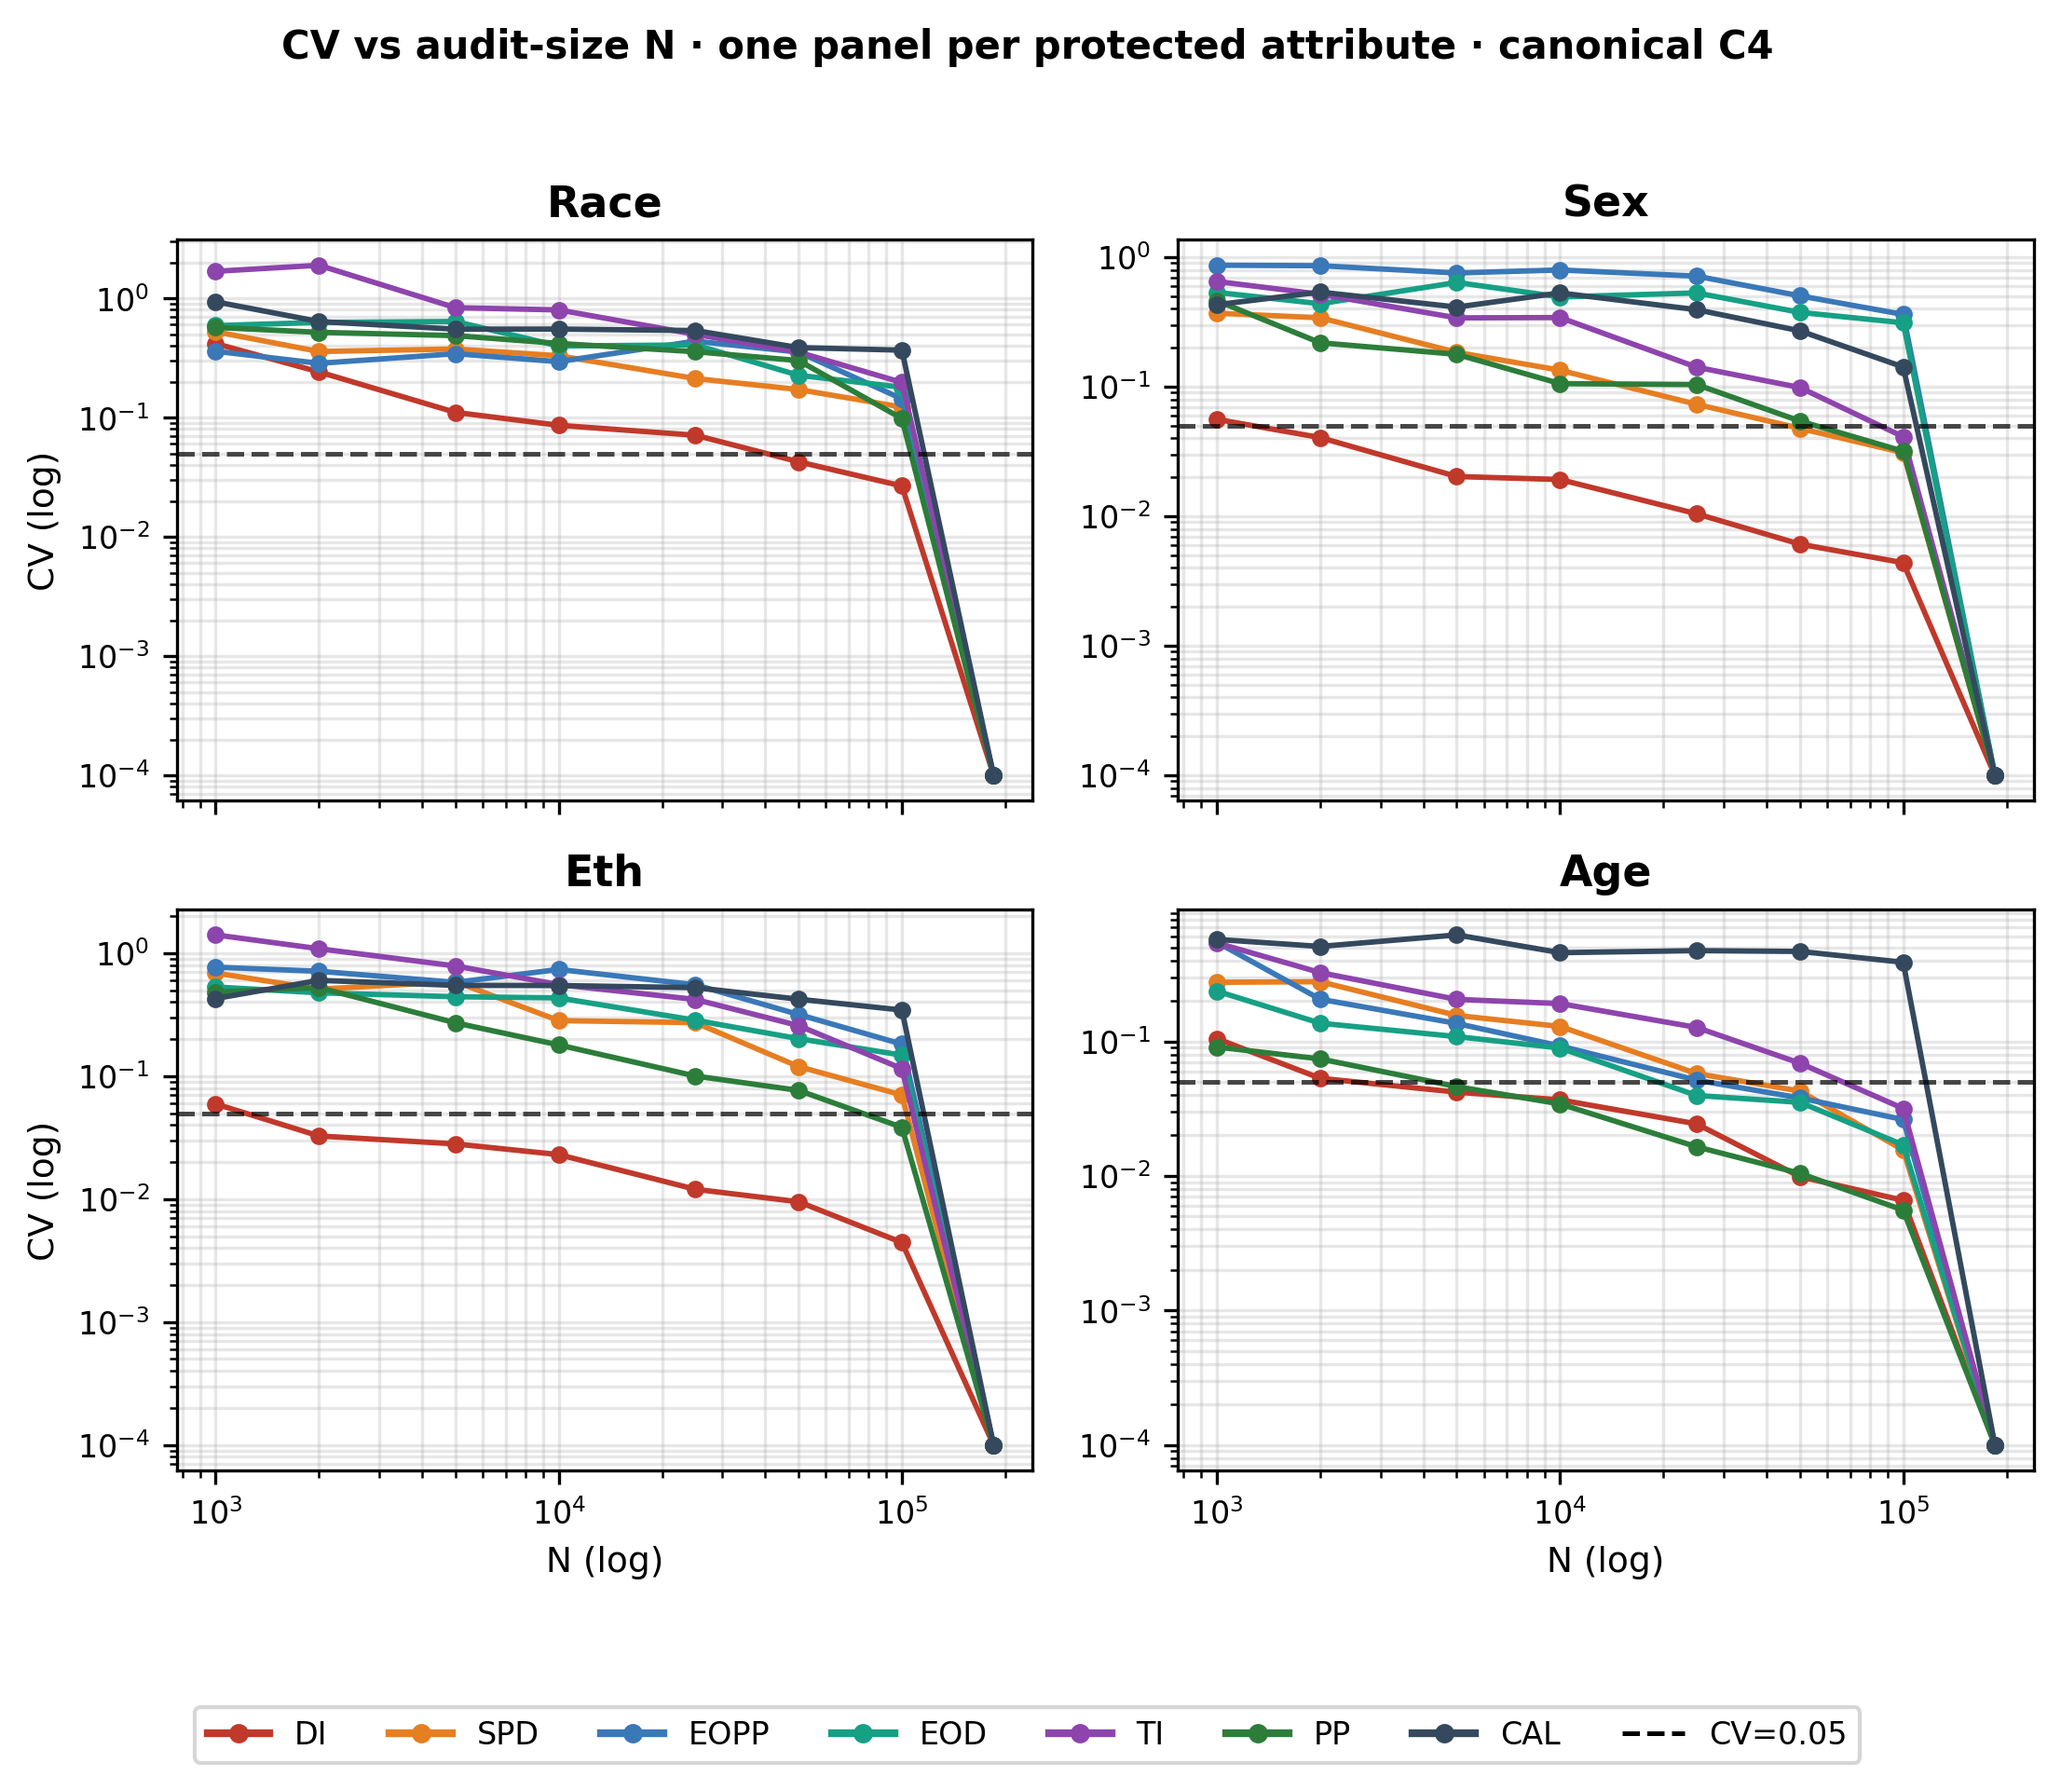
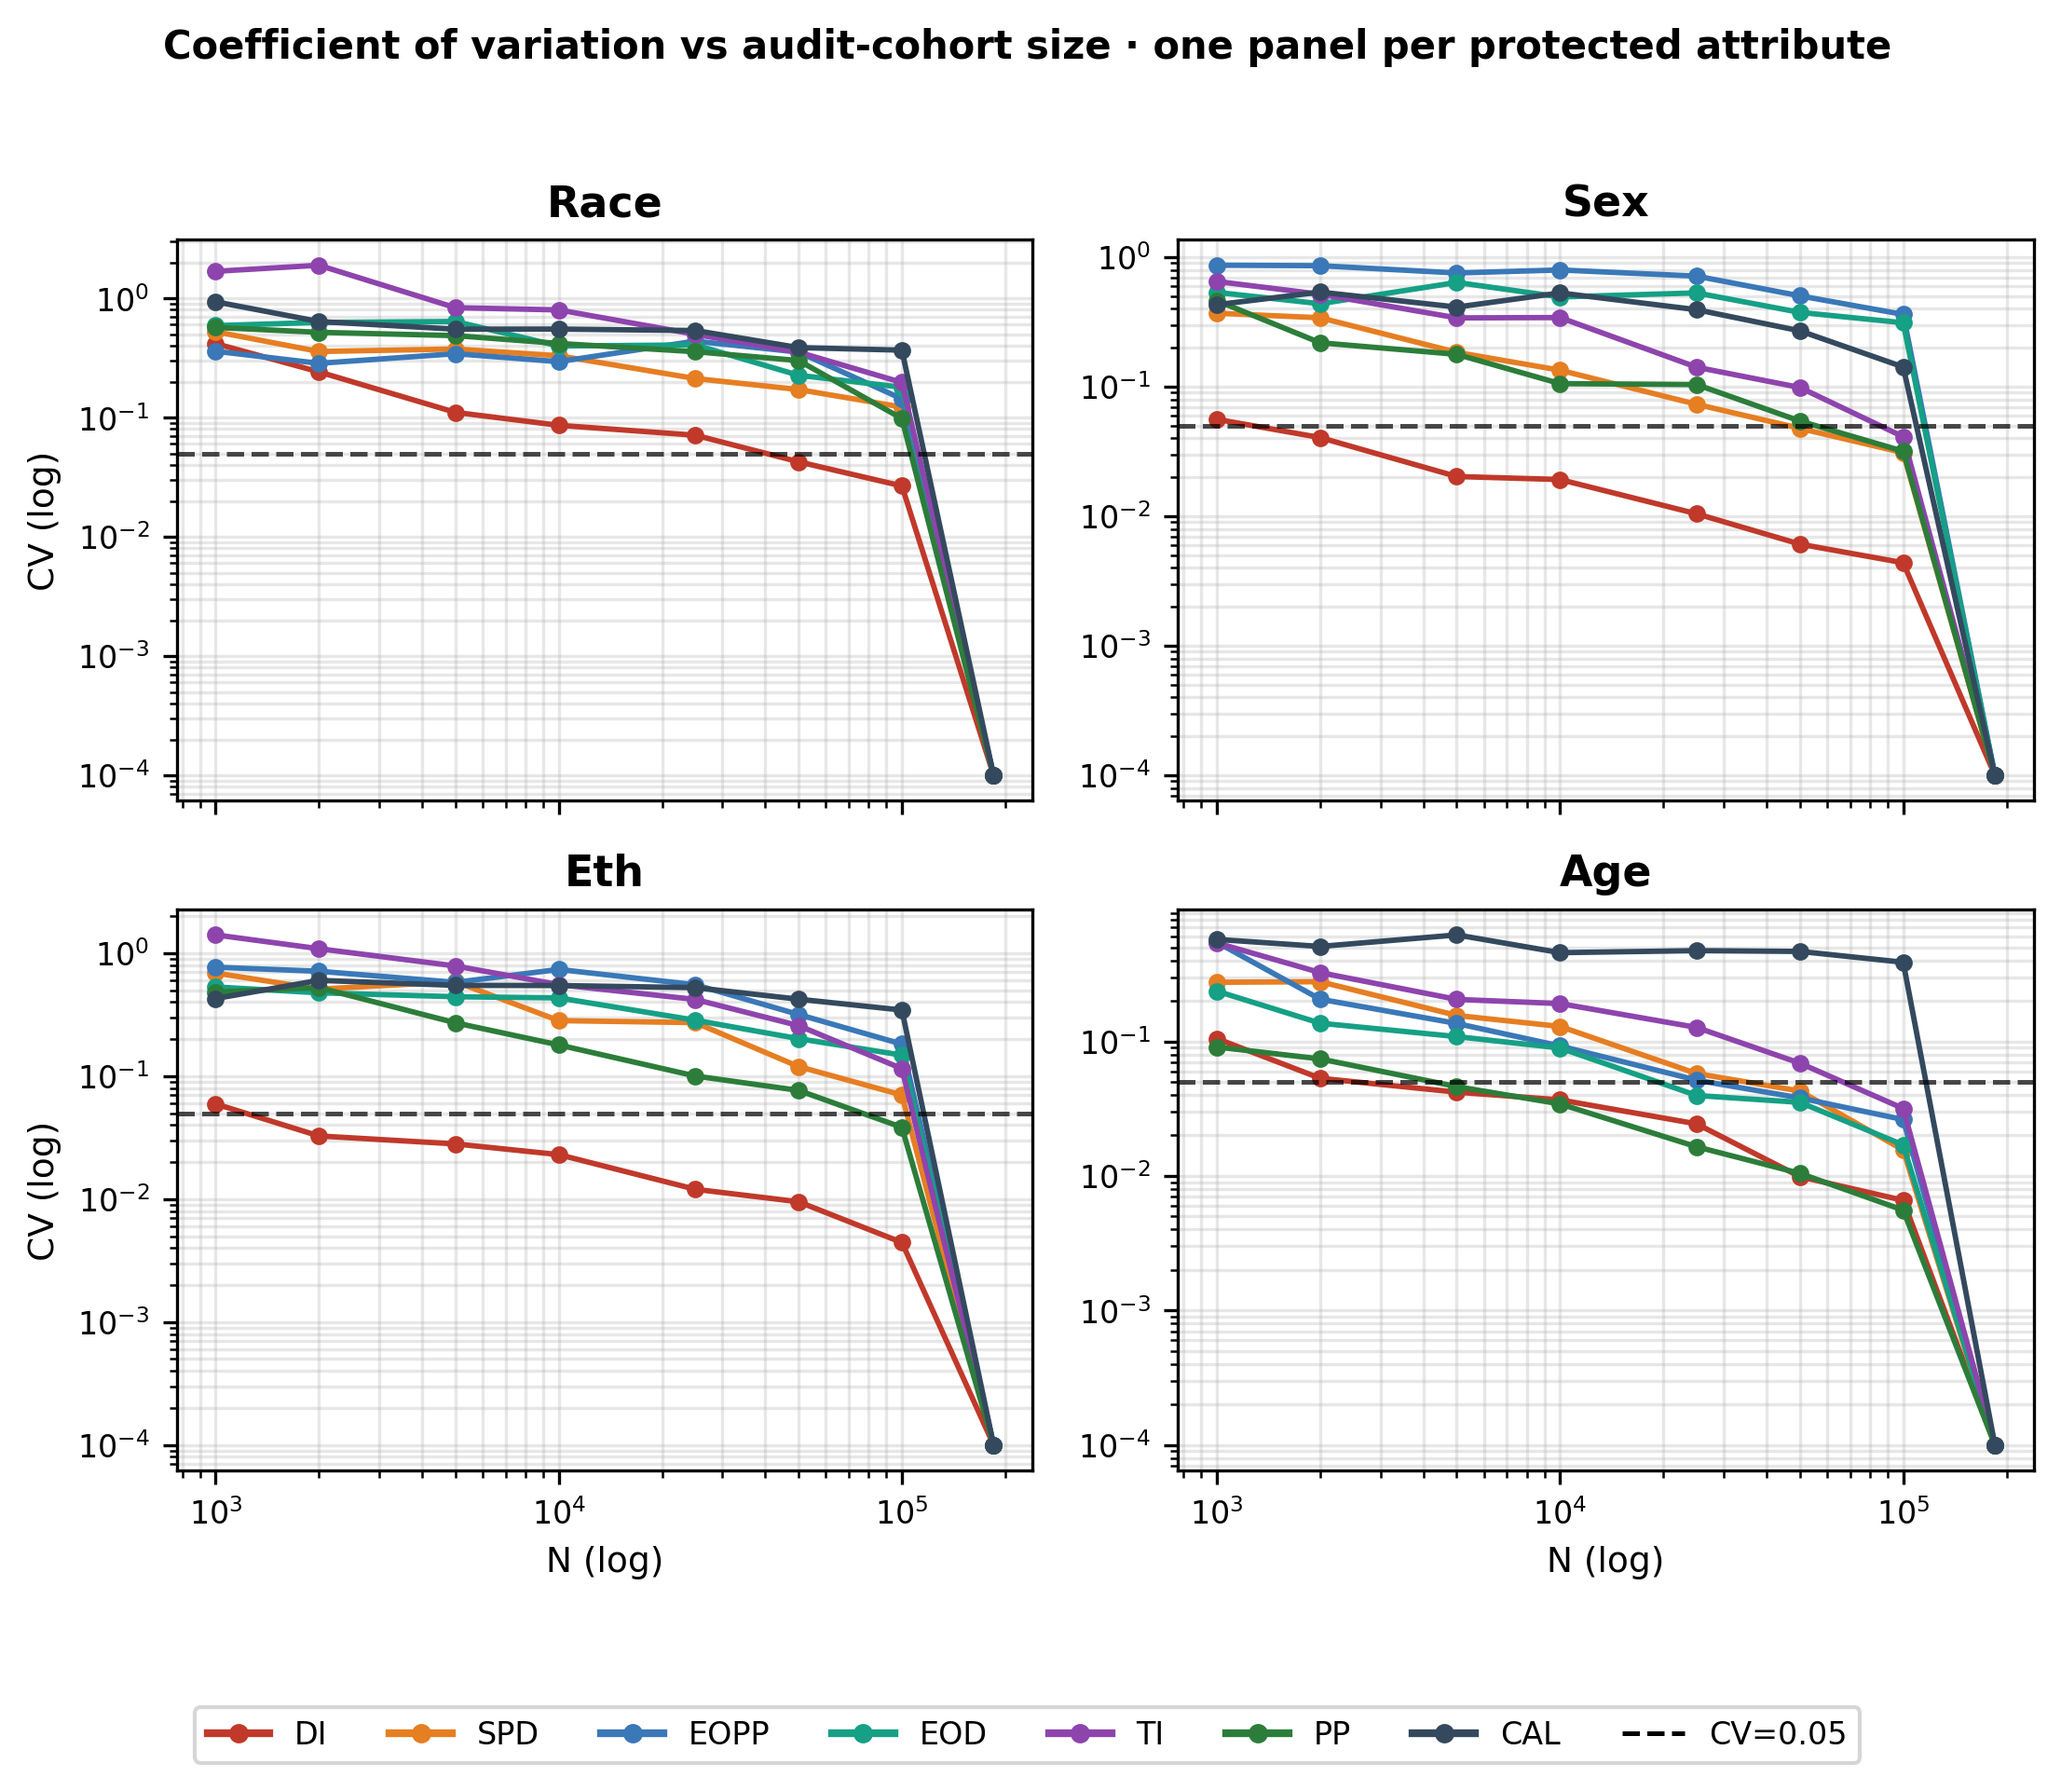
Fix F6 panel-title overlap + remove project jargon (Phase 5b / C4) from F3, F4, F5, F6 figure titles
F6 (per-model trade-off):
  - Panel titles were "(a) Race-axis threshold shift: works
    universally / All 12 models move above DI = 0.80" and "(b) Age-
    axis threshold shift (naïve, per-attribute α only): structurally
    infeasible / No model crosses DI = 0.80". Both spanned 2 lines and
    overflowed horizontally, crashing into each other and the suptitle.
  - Panel titles now: "(a) Race axis" and "(b) Age axis" (short).
  - Descriptive context moved to a 2-line suptitle: "Accuracy vs
    Disparate Impact across 12 classifiers after threshold-shifting
    intervention" + "Race-axis intervention succeeds for every
    classifier; Age-axis requires cell-level threshold refinement".
  - Layout: figsize 16x7.6, gridspec top=0.80 reserves space for the
    suptitle; wspace=0.18 gives breathing room between panels.
  - Structural-floor annotation: "requires canonical Phase 5b greedy
    refinement" -> "requires cell-level threshold refinement".

F3 (VFR landscape):
  - Title was "Per-cell Verdict-Flip-Rate landscape (canonical
    XGBoost, Phase 5b · C4) / X of 28 cells flip (VFR > 0); Race-
    axis cells dominate the high-instability quadrant".
  - Now: "Per-cell Verdict-Flip-Rate landscape on the post-
    intervention XGBoost classifier / X of 28 cells exhibit non-zero
    VFR; Race-axis cells dominate the high-instability quadrant".

F4 (CV vs N):
  - Title was "CV vs audit-size N · one panel per protected
    attribute · canonical C4".
[…]

Changed region(s): [[0.0936, 0.0, 0.9046, 0.0312]]

diff --git a/research question 1 version 3 final result and output/Final_Notebook/SHARE_WITH_PROFESSOR/cikm/render_manuscript_v2.py b/research question 1 version 3 final result and output/Final_Notebook/SHARE_WITH_PROFESSOR/cikm/render_manuscript_v2.py
@@ -189,8 +189,8 @@ def render_F3_vfr_heatmap():
 
     cbar = fig.colorbar(im, ax=ax, fraction=0.045, pad=0.04)
     cbar.set_label('VFR (0 = stable verdict, 0.5 = coin-flip)', fontsize=12, fontweight='bold')
-    ax.set_title(f'Per-cell Verdict-Flip-Rate landscape (canonical XGBoost, Phase 5b · C4)\n'
-                 f'{flip} of 28 cells flip (VFR > 0); Race-axis cells dominate the high-instability quadrant',
+    ax.set_title(f'Per-cell Verdict-Flip-Rate landscape on the post-intervention XGBoost classifier\n'
+                 f'{flip} of 28 cells exhibit non-zero VFR; Race-axis cells dominate the high-instability quadrant',
                  fontsize=12, fontweight='bold', pad=14)
     plt.tight_layout()
     plt.savefig(OUT / 'F3_vfr_heatmap.png', bbox_inches='tight', dpi=300)
@@ -228,7 +228,7 @@ def render_F4_cv_audit_size():
     handles = [Line2D([0], [0], color=METRIC_COLORS[m], lw=2, marker='o', markersize=4, label=m) for m in METRIC_ORDER]
     handles.append(Line2D([0], [0], color='black', linestyle='--', lw=1.2, label='CV=0.05'))
     fig.legend(handles=handles, loc='lower center', ncol=8, fontsize=8, frameon=True, bbox_to_anchor=(0.5, -0.06))
-    plt.suptitle('CV vs audit-size N · one panel per protected attribute · canonical C4',
+    plt.suptitle('Coefficient of variation vs audit-cohort size · one panel per protected attribute',
                  fontsize=10, fontweight='bold', y=1.02)
     plt.tight_layout()
     plt.subplots_adjust(bottom=0.13)
@@ -272,7 +272,7 @@ def render_F5_hospital_violin():
     ax.set_xticks(group_centers); ax.set_xticklabels(METRIC_ORDER, fontsize=10, fontweight='bold')
     ax.set_ylabel('Metric value · 20 hospital folds × 4 attributes\n(80 verdicts per metric)',
                   fontsize=9, fontweight='bold')
-    ax.set_title('Cross-hospital metric distribution on canonical XGBoost C4 · K=20 GroupKFold',
+    ax.set_title('Cross-hospital fairness-metric distribution on the post-intervention XGBoost classifier · K = 20 GroupKFold',
                  fontsize=10, fontweight='bold')
     ax.grid(axis='y', alpha=0.3)
     ax.tick_params(axis='y', labelsize=8)
@@ -297,10 +297,11 @@ def render_F6_per_model_tradeoff():
     ]
     T = pd.read_csv(TAB / 'T_per_model_before_after.csv').reset_index(drop=True)
 
-    # v2 tweaks: wider legend column (0.32 vs 0.28) to hold bigger font;
-    # tight wspace=0.10 so panels sit close to the legend.
-    fig = plt.figure(figsize=(16, 7))
-    gs = fig.add_gridspec(1, 3, width_ratios=[1.0, 1.0, 0.32], wspace=0.10)
+    # Layout: two square panels + legend column. top=0.80 reserves a clear
+    # band for a two-line suptitle so it cannot overlap the short panel titles.
+    fig = plt.figure(figsize=(16, 7.6))
+    gs = fig.add_gridspec(1, 3, width_ratios=[1.0, 1.0, 0.32], wspace=0.18,
+                          top=0.80, bottom=0.10)
     axA = fig.add_subplot(gs[0, 0])
     axB = fig.add_subplot(gs[0, 1])
     axL = fig.add_subplot(gs[0, 2]); axL.axis('off')
@@ -319,7 +320,7 @@ def render_F6_per_model_tradeoff():
         if show_floor:
             ax.axhspan(0.0, 0.32, color='red', alpha=0.10, zorder=1)
             ax.text(0.885, 0.95,
-                    'Structural floor\n(Age base-rate gap = 0.399)\nrequires canonical Phase 5b\ngreedy refinement',
+                    'Structural floor\n(Age base-rate gap = 0.399)\nrequires cell-level\nthreshold refinement',
                     ha='right', va='top', fontsize=10, fontweight='bold', color='#8b0000',
                     bbox=dict(boxstyle='round,pad=0.45', facecolor='white', edgecolor='#8b0000', alpha=0.95))
         ax.set_xlabel('Test-set accuracy', fontsize=13, fontweight='bold')
@@ -331,12 +332,12 @@ def render_F6_per_model_tradeoff():
         ax.set_xlim(0.77, 0.895)
 
     panel(axA, 'DI_RACE_before', 'DI_RACE_after',
-          'DI · Race axis (closer to 1 = fairer)',
-          '(a) Race-axis threshold shift: works universally\nAll 12 models move above DI = 0.80',
+          'Race-axis Disparate Impact (closer to 1 = fairer)',
+          '(a) Race axis',
           (0.45, 1.05))
     panel(axB, 'DI_AGE_GROUP_before', 'DI_AGE_GROUP_after',
-          'DI · Age axis',
-          '(b) Age-axis threshold shift (naïve, per-attribute α only): structurally infeasible\nNo model crosses DI = 0.80',
+          'Age-axis Disparate Impact',
+          '(b) Age axis',
           (0.0, 1.05), show_floor=True)
 
     legend_handles = []
@@ -355,9 +356,9 @@ def render_F6_per_model_tradeoff():
                 title='Classifiers (12) + markers', title_fontsize=13,
                 borderaxespad=0.2, handletextpad=0.5, labelspacing=0.45)
 
-    plt.suptitle('Per-model trade-off across 12 classifiers · Race-axis intervention works universally · Age-axis needs greedy refinement',
-                 fontsize=12.5, fontweight='bold', y=1.02)
-    plt.tight_layout()
+    plt.suptitle('Accuracy vs Disparate Impact across 12 classifiers after threshold-shifting intervention\n'
+                 'Race-axis intervention succeeds for every classifier; Age-axis requires cell-level threshold refinement',
+                 fontsize=12.5, fontweight='bold', y=0.96)
     plt.savefig(OUT / 'F6_per_model_tradeoff.png', bbox_inches='tight', dpi=300)
     plt.close()
     print('F6_per_model_tradeoff.png saved (legend font 13, tight spacing)')
